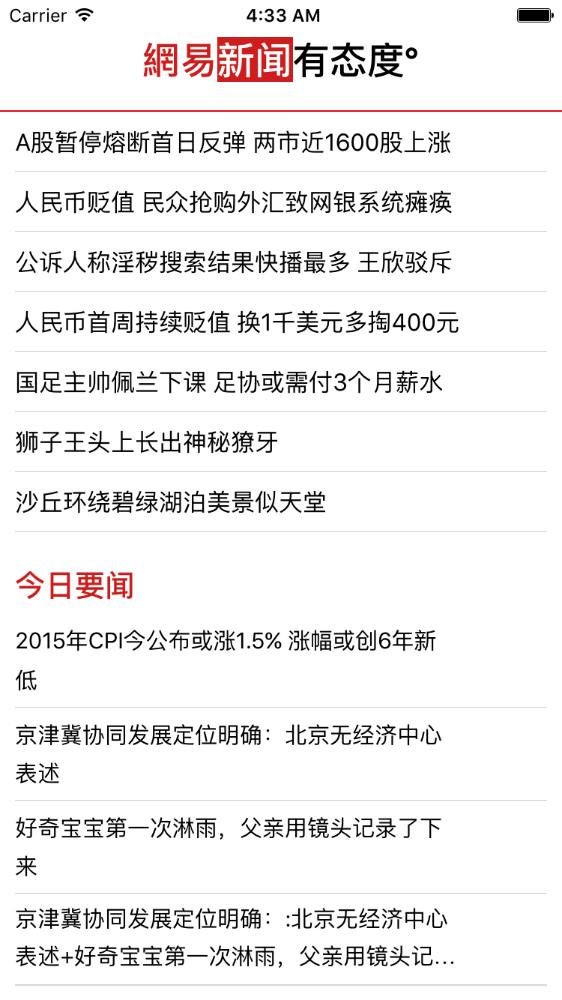
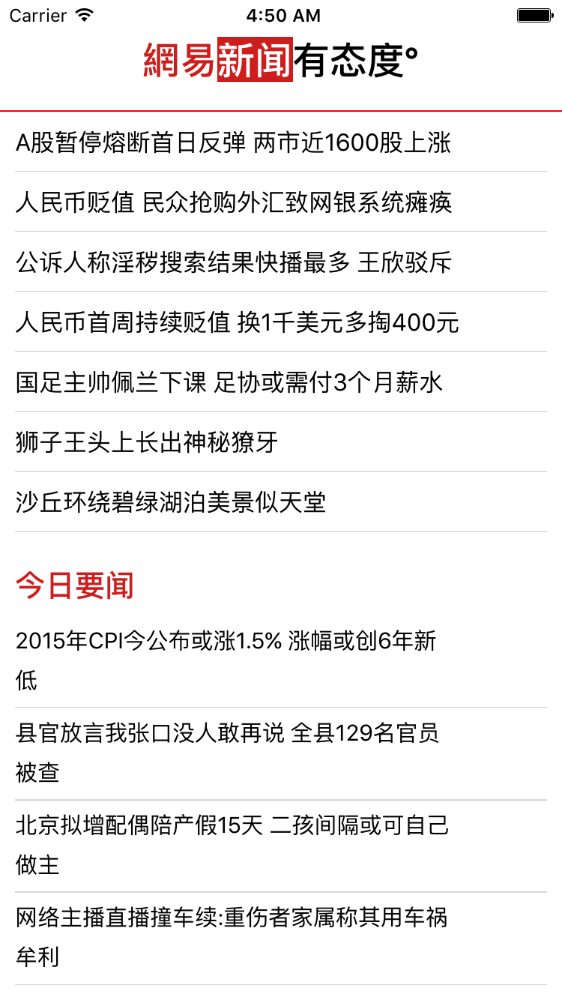
update news

Changed region(s): [[0.0302, 0.713, 0.8167, 0.992], [0.4537, 0.0, 0.5747, 0.031]]

diff --git a/Wangyi/index.ios.js b/Wangyi/index.ios.js
@@ -76,9 +76,9 @@ var Wangyi = React.createClass({
         ];
         let news = [
             '2015年CPI今公布或涨1.5% 涨幅或创6年新低',
-            '京津冀协同发展定位明确：北京无经济中心表述',
-            '好奇宝宝第一次淋雨，父亲用镜头记录了下来',
-            '京津冀协同发展定位明确：:北京无经济中心表述+好奇宝宝第一次淋雨，父亲用镜头记录了下来'
+            '县官放言我张口没人敢再说 全县129名官员被查',
+            '北京拟增配偶陪产假15天 二孩间隔或可自己做主',
+            '网络主播直播撞车续:重伤者家属称其用车祸牟利'
         ];
         return (
             <View style={styles.container}>
